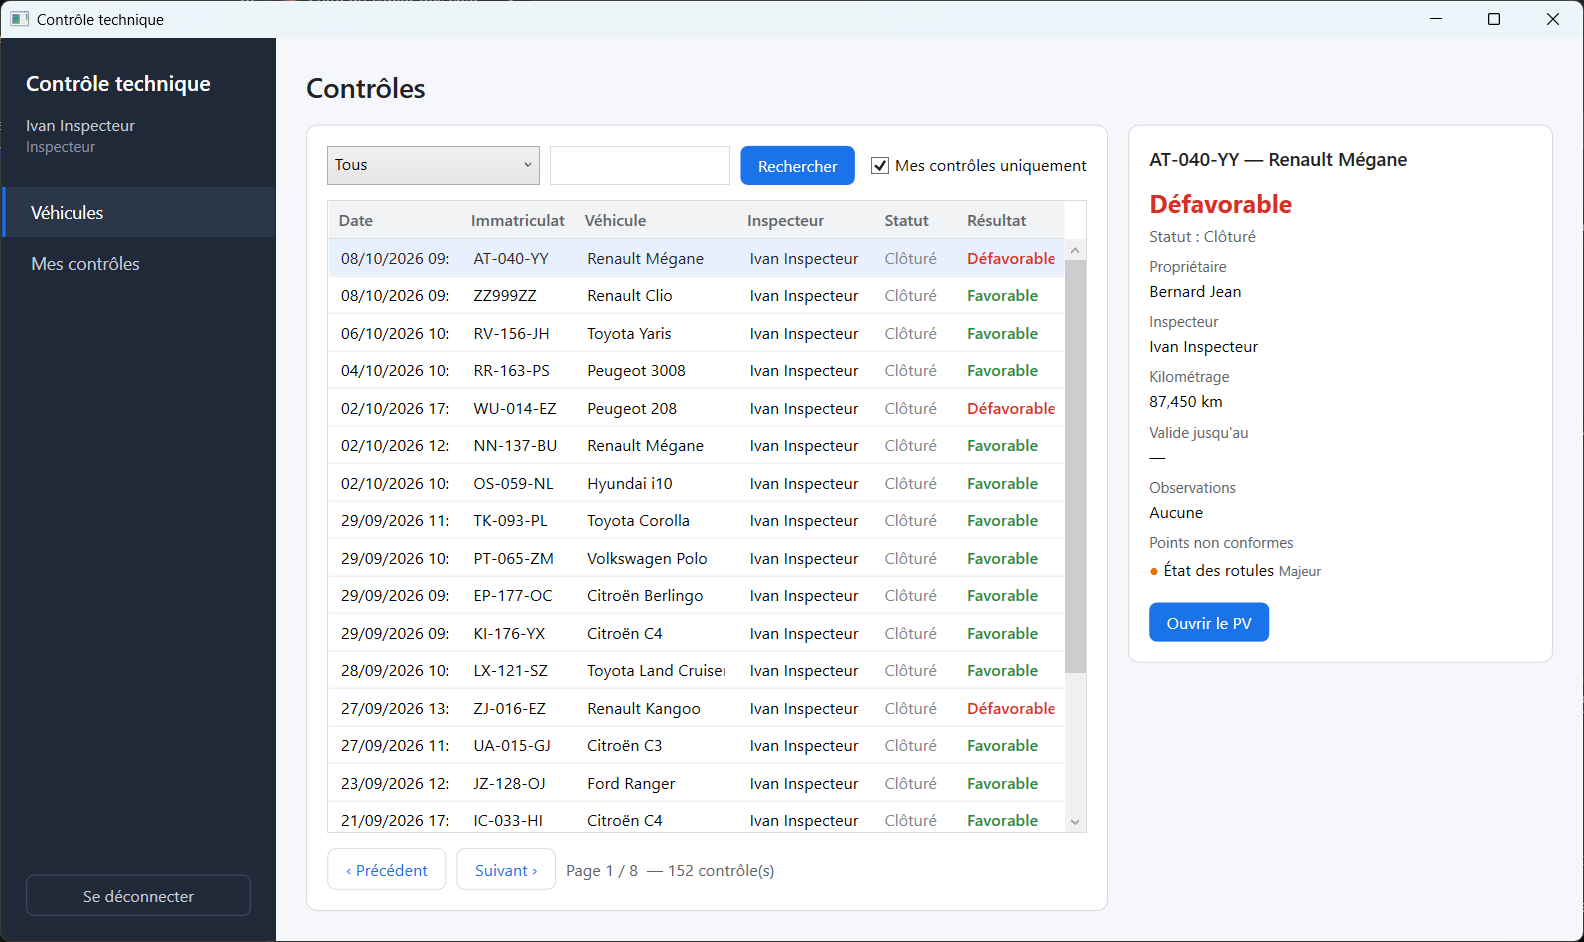
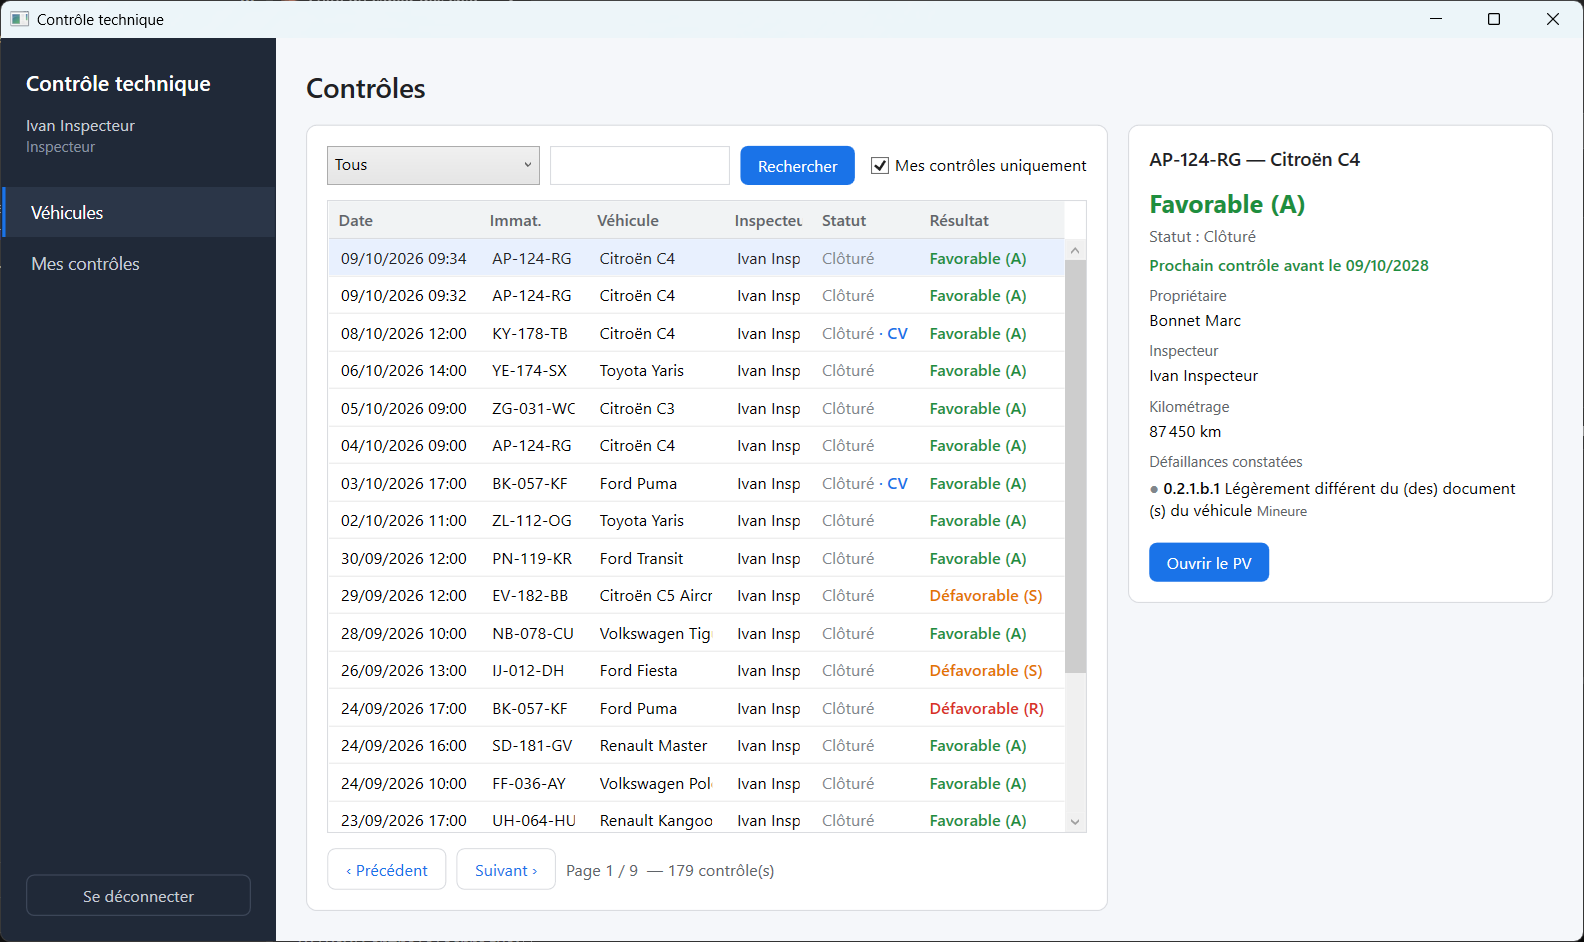
docs: rewrite README and update screenshots and demo script

diff --git a/README.md b/README.md
@@ -1,155 +1,217 @@
-# Contrôle technique — gestion des contrôles de véhicules (C# / .NET 10)
+# Contrôle Technique
 
-Application de démonstration qui gère les contrôles techniques d'un centre fictif : une **API REST ASP.NET Core** sécurisée par JWT, une base **SQL Server LocalDB** créée automatiquement, et une **application WPF (MVVM)** utilisée par trois rôles : administrateur, inspecteur et réception.
+Gestion des contrôles techniques de véhicules légers, conforme à la réglementation française : API REST ASP.NET Core, base SQL Server et application de bureau WPF.
 
-> Projet personnel et fictif : les données, les points de contrôle et les règles de calcul sont simplifiés et ne reprennent aucune réglementation officielle.
+[![CI](https://github.com/Darkepsilon22/ControleTechnique/actions/workflows/ci.yml/badge.svg)](https://github.com/Darkepsilon22/ControleTechnique/actions/workflows/ci.yml)
+![.NET](https://img.shields.io/badge/.NET-10-512BD4?logo=dotnet&logoColor=white)
+![C#](https://img.shields.io/badge/C%23-14-239120?logo=csharp&logoColor=white)
+![SQL Server](https://img.shields.io/badge/SQL%20Server-LocalDB-CC2927?logo=microsoftsqlserver&logoColor=white)
+![WPF](https://img.shields.io/badge/WPF-MVVM-0078D4?logo=windows&logoColor=white)
 
 ![Saisie d'un contrôle](docs/captures/04-saisie-controle.png)
 
+## Sommaire
+
+- [Présentation](#présentation)
+- [Fonctionnalités](#fonctionnalités)
+- [Règles réglementaires](#règles-réglementaires)
+- [Architecture](#architecture)
+- [Stack technique](#stack-technique)
+- [Démarrage rapide](#démarrage-rapide)
+- [API](#api)
+- [Tests et qualité](#tests-et-qualité)
+- [Performance](#performance)
+- [Captures d'écran](#captures-décran)
+- [Sources](#sources)
+
+## Présentation
+
+L'application couvre le travail d'un centre de contrôle technique pour les véhicules de catégories M1 et N1 (3,5 t maximum) :
+
+- la **réception** enregistre les propriétaires et les véhicules ;
+- l'**inspecteur** saisit le contrôle à partir du catalogue officiel des défaillances, le clôture et édite le procès-verbal ;
+- l'**administrateur** gère les comptes, le catalogue et suit l'activité du centre.
+
+Les règles de résultat, de validité et de contre-visite suivent l'arrêté du 18 juin 1991 modifié.
+
+> [!NOTE]
+> Projet personnel de démonstration. Il ne s'agit pas d'un logiciel agréé : aucune connexion à l'OTC ni au SIV, et toutes les données sont fictives.
+
 ## Fonctionnalités
 
-| Module | Ce qui est fait |
+| Domaine | Fonctionnalités |
 | --- | --- |
-| Authentification | Connexion par e-mail et mot de passe (BCrypt), jeton JWT de 8 h, droits par rôle sur chaque endpoint |
-| Utilisateurs | L'administrateur crée, modifie et désactive les comptes |
-| Propriétaires et véhicules | Création, modification, recherche paginée ; immatriculation et n° de châssis uniques |
-| Points de contrôle | 25 points fournis (7 catégories, gravité mineure, majeure ou critique) ; un point désactivé n'est jamais supprimé |
-| Contrôles | Ouverture par l'inspecteur, saisie point par point (conforme, non conforme, N/A, commentaire), clôture avec calcul automatique du résultat |
-| Contre-visite | Après un contrôle défavorable, l'inspecteur ouvre une contre-visite dans les 2 mois (paramètre `Controles:DelaiContreVisiteMois`) ; seuls les points non conformes sont revérifiés et la validité court depuis la date du contrôle initial |
-| Procès-verbal | PV en PDF (QuestPDF) : véhicule, propriétaire, inspecteur, résultat, points non conformes, date de fin de validité |
-| Tableau de bord | Contrôles par mois, taux de favorables, points le plus souvent non conformes |
+| Contrôle | Checklist organisée par fonction de l'annexe I ; pour chaque point : conforme, non applicable ou défaillance(s) avec leur code officiel ; points d'émissions selon l'énergie (essence ou diesel) |
+| Résultat | Calcul automatique A, S ou R ; validité et date limite de contre-visite ; contrôle verrouillé après clôture |
+| Contre-visite | Ouverture sous 2 mois après le contrôle périodique ; points revérifiés déterminés selon l'annexe I |
+| Procès-verbal | PDF avec identification du véhicule, résultat, échéance et défaillances classées par niveau |
+| Véhicules | Recherche paginée, unicité de l'immatriculation et du VIN, échéance du prochain contrôle (à jour, en retard, contre-visite à faire, circulation interdite) |
+| Catalogue | 9 fonctions, 29 points et 76 défaillances officiels, administrables |
+| Tableau de bord | Contrôles par mois, taux de favorables, résultats S et R, contre-visites, défaillances les plus fréquentes |
+| Sécurité | Authentification JWT, trois rôles, mots de passe hachés avec BCrypt, clé de signature hors du dépôt |
 
-### Règles de calcul du résultat
+## Règles réglementaires
 
-- Au moins un point **majeur ou critique** non conforme : résultat **Défavorable**.
-- Sinon : résultat **Favorable**, et les points mineurs non conformes deviennent des observations.
-- Fin de validité : date du contrôle + 12 mois (paramètre `Controles:DureeValiditeMois`), aucune date pour un défavorable.
-- Contre-visite : une seule par contrôle défavorable, jamais après une autre contre-visite ; si elle est défavorable, un nouveau contrôle complet est nécessaire.
-- Un contrôle clôturé n'est plus modifiable. La règle est appliquée dans le domaine, pas seulement dans l'interface.
+| Règle | Référence |
+| --- | --- |
+| Aucune défaillance majeure ni critique : **favorable (A)**, valable 2 ans | Arrêté du 18 juin 1991, art. 4 et 7 |
+| Au moins une défaillance majeure : **défavorable (S)**, contre-visite sous 2 mois | Art. 7 |
+| Au moins une défaillance critique : **défavorable (R)**, circulation autorisée jusqu'à minuit le jour du contrôle | Art. 7 |
+| Niveau d'une défaillance donné par le dernier chiffre de son code : 1 mineure, 2 majeure, 3 critique | Annexe I |
+| Contre-visite au-delà de 2 mois : nouveau contrôle périodique complet | Art. 7 et 8 |
+| Points revérifiés en contre-visite : fonction 0 et point 7.11.1 toujours ; fonction entière pour les fonctions 1 et 2 ; ensemble de points concerné pour les autres, avec les extensions prévues (5.1/5.3, 8.1/8.2 et 6.1.2/6.1.3) | Annexe I, section F |
+| Contre-visite favorable : validité de 2 ans à compter du contrôle périodique | Art. 4 |
+| Premier contrôle avant le 4e anniversaire de la première immatriculation, puis tous les 2 ans | Code de la route |
+
+Ces règles sont implémentées dans la couche domaine ([`Reglementation`](src/CT.Domain/Rules/Reglementation.cs), [`RegleContreVisite`](src/CT.Domain/Rules/RegleContreVisite.cs), [`EcheanceControle`](src/CT.Domain/Rules/EcheanceControle.cs), [`Controle`](src/CT.Domain/Entities/Controle.cs)) et couvertes par des tests unitaires.
+
+**Hors périmètre** : catalogue complet (133 points, 610 défaillances), contrôle complémentaire annuel des utilitaires (art. 4-1), véhicules de collection, seuils de mesure des appareils (freinage, opacité).
 
 ## Architecture
 
+```mermaid
+flowchart LR
+    WPF["CT.Desktop<br/>WPF, MVVM"] -- "HTTP + JWT" --> API["CT.Api<br/>ASP.NET Core"]
+    API --> DOM["CT.Domain<br/>règles métier"]
+    API --> INF["CT.Infrastructure<br/>EF Core"]
+    INF --> DB[("SQL Server<br/>LocalDB")]
+    WPF -. "DTO" .- SH["CT.Shared"]
+    API -. "DTO" .- SH
+```
+
 ```
 src/
-  CT.Domain/          entités, énumérations, règles métier (calcul du résultat, clôture)
-  CT.Infrastructure/  DbContext EF Core, configurations, migrations, seed, hachage BCrypt
-  CT.Api/             contrôleurs, services, JWT, PDF, gestion des erreurs (ProblemDetails)
-  CT.Shared/          DTO et énumérations partagés par l'API et les clients
-  CT.Desktop/         application WPF (MVVM avec CommunityToolkit.Mvvm)
+├── CT.Domain/          Entités, règles réglementaires, exceptions métier
+├── CT.Infrastructure/  DbContext, configurations EF Core, migrations, catalogue, données de démonstration
+├── CT.Api/             Contrôleurs, services applicatifs, JWT, PDF, gestion des erreurs
+├── CT.Shared/          DTO et énumérations partagés par l'API et les clients
+└── CT.Desktop/         Application WPF (MVVM)
 tests/
-  CT.Tests/           tests unitaires du domaine et tests d'intégration de l'API (xUnit)
-docs/captures/        captures d'écran
+└── CT.Tests/           Tests unitaires et tests d'intégration
+scripts/                Mesure des temps de réponse
+docs/                   Captures d'écran, script de démonstration
 ```
 
-- Le client WPF ne parle qu'à l'API ; seule l'API lit et écrit dans SQL Server.
-- Un contrôleur appelle un service, le service contient la logique et utilise le DbContext. L'API ne renvoie jamais d'entité, uniquement des DTO.
-- Toutes les clés sont des GUID générés par le code, pour permettre plus tard une saisie hors ligne sans conflit d'identifiant.
-- Les erreurs métier deviennent des réponses HTTP claires : 400 (validation, règle métier), 401, 403, 404, 409 (immatriculation déjà utilisée, contrôle déjà clôturé).
+Principes retenus :
 
-## Prérequis
+- **Couches séparées** : les règles métier vivent dans le domaine ; les contrôleurs délèguent aux services ; seule l'API accède à la base.
+- **Contrats explicites** : l'API n'expose que des DTO, jamais les entités.
+- **Erreurs normalisées** : les exceptions métier sont converties en `ProblemDetails` (400, 403, 404, 409).
+- **Identifiants GUID** générés par l'application, pour permettre une saisie hors ligne sans conflit.
 
-- Windows avec le **SDK .NET 10**
-- **SQL Server Express LocalDB** (instance `MSSQLLocalDB`)
-- Aucune virtualisation : ni Docker, ni WSL
+## Stack technique
 
-## Lancer le projet
+| Couche | Technologies |
+| --- | --- |
+| API | ASP.NET Core 10, JWT Bearer, OpenAPI, Scalar, QuestPDF |
+| Données | Entity Framework Core 10, SQL Server LocalDB, migrations versionnées |
+| Bureau | WPF, CommunityToolkit.Mvvm, Microsoft.Extensions.DependencyInjection |
+| Tests | xUnit, WebApplicationFactory, SQLite en mémoire |
+| CI | GitHub Actions (build et tests à chaque pull request) |
+
+## Démarrage rapide
+
+### Prérequis
+
+- Windows 10 ou 11
+- [SDK .NET 10](https://dotnet.microsoft.com/download)
+- SQL Server Express LocalDB (instance `MSSQLLocalDB`)
+
+### Installation
 
 ```powershell
 git clone https://github.com/Darkepsilon22/ControleTechnique.git
 cd ControleTechnique
 
-# 1. Clé de signature JWT, stockée hors du dépôt (au moins 32 caractères)
-cd src/CT.Api
-dotnet user-secrets set "Jwt:Key" "une-cle-aleatoire-d-au-moins-32-caracteres"
-cd ../..
-
-# 2. API : crée la base LocalDB, applique les migrations et insère les données de démonstration
-dotnet run --project src/CT.Api
+# Clé de signature JWT, stockée hors du dépôt (32 caractères minimum)
+dotnet user-secrets set "Jwt:Key" "<clé-aléatoire-de-32-caractères-minimum>" --project src/CT.Api
 ```
 
-L'API écoute sur `http://localhost:5092`. L'interface OpenAPI (Scalar) est disponible sur <http://localhost:5092/scalar/v1> ; le document OpenAPI brut est servi sur `/openapi/v1.json`.
-
-Dans un second terminal :
+### Lancement
 
 ```powershell
-# 3. Application desktop
+# Terminal 1 : l'API crée la base, applique les migrations et insère les données de démonstration
+dotnet run --project src/CT.Api
+
+# Terminal 2 : application de bureau
 dotnet run --project src/CT.Desktop
 ```
 
-Pour viser une autre adresse d'API : variable d'environnement `CT_API_URL`, par exemple `https://localhost:7169/`.
+L'API écoute sur `http://localhost:5092`. L'application de bureau peut viser une autre adresse avec la variable d'environnement `CT_API_URL`.
 
 ### Comptes de démonstration
 
 | Rôle | E-mail | Mot de passe |
 | --- | --- | --- |
-| Administrateur | admin@ct.local | Demo123! |
-| Inspecteur | inspecteur@ct.local | Demo123! |
-| Réception | reception@ct.local | Demo123! |
+| Administrateur | `admin@ct.local` | `Demo123!` |
+| Inspecteur | `inspecteur@ct.local` | `Demo123!` |
+| Réception | `reception@ct.local` | `Demo123!` |
 
-La base de démonstration contient 25 points de contrôle, 120 propriétaires, 200 véhicules et 150 contrôles clôturés sur les six derniers mois.
+La base de démonstration contient le catalogue réglementaire, 200 véhicules et environ 150 contrôles des six derniers mois. Un parcours de démonstration en 3 minutes est décrit dans [docs/demo.md](docs/demo.md).
 
-Un déroulé de démonstration en 3 minutes est décrit dans [docs/demo.md](docs/demo.md).
+## API
 
-## Tests
+La documentation interactive est disponible sur <http://localhost:5092/scalar/v1> et le document OpenAPI sur `/openapi/v1.json`.
+
+<details>
+<summary>Endpoints</summary>
+
+| Méthode et route | Rôles |
+| --- | --- |
+| `POST /api/auth/login` | Public |
+| `GET, POST /api/utilisateurs` · `PUT /api/utilisateurs/{id}` | Administrateur |
+| `GET, POST /api/proprietaires` · `PUT /api/proprietaires/{id}` | Administrateur, Réception |
+| `GET /api/vehicules` · `GET /api/vehicules/{id}` · `GET /api/vehicules/{id}/controles` | Tous |
+| `POST /api/vehicules` · `PUT /api/vehicules/{id}` | Administrateur, Réception |
+| `GET /api/points-controle` | Tous |
+| `POST /api/points-controle` · `POST /api/points-controle/{id}/defaillances` | Administrateur |
+| `GET /api/controles` · `GET /api/controles/{id}` · `GET /api/controles/{id}/pv` | Tous |
+| `POST /api/controles` · `PUT /api/controles/{id}` · `POST /api/controles/{id}/cloturer` · `POST /api/controles/{id}/contre-visite` | Inspecteur |
+| `GET /api/statistiques/resume` | Administrateur |
+
+Des requêtes prêtes à l'emploi sont fournies dans [src/CT.Api/CT.Api.http](src/CT.Api/CT.Api.http).
+
+</details>
+
+## Tests et qualité
 
 ```powershell
 dotnet test
 ```
 
-- **Tests unitaires** sur les règles métier : calcul du résultat, date de fin de validité, saisie, clôture et refus de toute modification après clôture.
-- **Tests d'intégration** de l'API avec `WebApplicationFactory` et SQLite en mémoire : connexion valide (200) et invalide (401), absence de jeton (401), rôle insuffisant (403), immatriculation en double (409), données invalides (400), parcours complet jusqu'au PV.
+- **Tests unitaires** des règles réglementaires : résultat A/S/R, validités, niveau déduit du code, points revérifiés en contre-visite, délais, échéance des véhicules, saisie et clôture.
+- **Tests d'intégration** de l'API (`WebApplicationFactory`, SQLite en mémoire) : authentification, autorisations par rôle, validation, conflits, parcours complet jusqu'au PV et contre-visite.
+- **Intégration continue** : build et tests exécutés par GitHub Actions sur chaque pull request.
 
 ## Performance
 
-Exigence : réponse sous 500 ms en local avec 10 000 véhicules. Pour la vérifier, l'option `Demo:VehiculesDeCharge` complète la base jusqu'au nombre de véhicules demandé, puis un script chronomètre les principales requêtes :
+Objectif : réponse inférieure à 500 ms avec 10 000 véhicules. Mesure reproductible :
 
 ```powershell
 dotnet run --project src/CT.Api -- --Demo:VehiculesDeCharge=10000
 .\scripts\mesurer-performance.ps1
 ```
 
-Résultats sur LocalDB, 10 000 véhicules, 20 mesures par requête (temps HTTP complets, en ms) :
-
-| Requête | Médiane | 95e centile |
+| Requête (10 000 véhicules, LocalDB) | Médiane | 95e centile |
 | --- | --- | --- |
-| Véhicules, page 1 | 5,5 | 6,7 |
-| Véhicules, dernière page | 20,1 | 23,3 |
-| Recherche d'immatriculation | 33,1 | 37,1 |
-| Recherche de n° de châssis | 22,0 | 25,0 |
-| Recherche de propriétaire | 21,2 | 35,4 |
-| Propriétaires, page 1 | 3,0 | 11,2 |
-| Contrôles, page 1 | 3,4 | 4,8 |
-| Statistiques sur 6 mois | 4,1 | 5,5 |
-
-Le script renvoie un code d'erreur si une requête dépasse le seuil.
-
-## Endpoints principaux
-
-| Méthode et route | Rôles |
-| --- | --- |
-| `POST /api/auth/login` | Public |
-| `GET, POST /api/utilisateurs`, `PUT /api/utilisateurs/{id}` | Administrateur |
-| `GET, POST /api/proprietaires`, `PUT /api/proprietaires/{id}` | Administrateur, Réception |
-| `GET /api/vehicules?search=&page=`, `GET /api/vehicules/{id}`, `GET /api/vehicules/{id}/controles` | Tous |
-| `POST /api/vehicules`, `PUT /api/vehicules/{id}` | Administrateur, Réception |
-| `GET /api/points-controle` | Tous |
-| `POST /api/points-controle` (création ou modification) | Administrateur |
-| `GET /api/controles?statut=&search=&mesControles=`, `GET /api/controles/{id}` | Tous |
-| `POST /api/controles`, `PUT /api/controles/{id}`, `POST /api/controles/{id}/cloturer` | Inspecteur (ses propres contrôles) |
-| `POST /api/controles/{id}/contre-visite` | Inspecteur |
-| `GET /api/controles/{id}/pv` | Tous |
-| `GET /api/statistiques/resume?du=&au=` | Administrateur |
-
-Le fichier [src/CT.Api/CT.Api.http](src/CT.Api/CT.Api.http) contient des requêtes prêtes à l'emploi.
+| Véhicules, page 1 | 11 ms | 26 ms |
+| Véhicules, dernière page | 38 ms | 54 ms |
+| Recherche par immatriculation | 54 ms | 90 ms |
+| Recherche par numéro de châssis | 36 ms | 53 ms |
+| Recherche par propriétaire | 37 ms | 66 ms |
+| Contrôles, page 1 | 8 ms | 11 ms |
+| Statistiques sur 6 mois | 13 ms | 19 ms |
 
 ## Captures d'écran
 
-| | |
+| Tableau de bord | Véhicules |
 | --- | --- |
-| ![Connexion](docs/captures/01-connexion.png) | ![Tableau de bord](docs/captures/02-tableau-de-bord.png) |
-| ![Véhicules](docs/captures/03-vehicules.png) | ![Contrôles](docs/captures/05-controles.png) |
-| ![Saisie d'un contrôle](docs/captures/04-saisie-controle.png) | ![Points de contrôle](docs/captures/06-points-de-controle.png) |
+| ![Tableau de bord](docs/captures/02-tableau-de-bord.png) | ![Véhicules](docs/captures/03-vehicules.png) |
+| **Contrôles** | **Catalogue réglementaire** |
+| ![Contrôles](docs/captures/05-controles.png) | ![Catalogue](docs/captures/06-points-de-controle.png) |
 
-## Technologies
+## Sources
 
-C# 14, .NET 10, ASP.NET Core, Entity Framework Core 10, SQL Server LocalDB, JWT, BCrypt, QuestPDF (licence Community), Scalar, WPF, CommunityToolkit.Mvvm, xUnit, SQLite (tests).
+- [Arrêté du 18 juin 1991 modifié](https://www.legifrance.gouv.fr/loda/id/LEGITEXT000020559004), articles 4, 7 et 8 (Légifrance)
+- [Annexe I de l'arrêté](https://www.legifrance.gouv.fr/loda/article_lc/LEGIARTI000042548649) : fonctions, points, défaillances et contre-visites (Légifrance)
+- Instructions techniques véhicules légers, par exemple [IT VL F1 Freinage](https://fna.fr/wp-content/uploads/2023/05/IT-VL-F1E-FREINAGE-171018.pdf) et [IT VL F5 Liaisons au sol](https://fna.fr/wp-content/uploads/2023/05/IT-VL-F5E-LIAISON-AU-SOL-23022022.pdf)

diff --git a/docs/demo.md b/docs/demo.md
@@ -5,7 +5,7 @@ Parcours complet de l'application, du point de vue des trois rôles, puis un ape
 ## Préparation (5 minutes avant)
 
 ```powershell
-# Base de démonstration propre (25 points, 200 véhicules, 150 contrôles)
+# Base de démonstration propre (catalogue réglementaire, 200 véhicules, environ 150 contrôles)
 dotnet ef database drop -f -p src/CT.Infrastructure -s src/CT.Api
 dotnet run --project src/CT.Api
 
@@ -16,7 +16,7 @@ dotnet run --project src/CT.Desktop
 À garder ouverts :
 
 - le navigateur sur <http://localhost:5092/scalar/v1> ;
-- l'éditeur sur `src/CT.Domain/Entities/Controle.cs` et `src/CT.Domain/Rules/CalculateurResultat.cs` ;
+- l'éditeur sur `src/CT.Domain/Rules/Reglementation.cs`, `src/CT.Domain/Rules/RegleContreVisite.cs` et `src/CT.Domain/Entities/Controle.cs` ;
 - un terminal à la racine du dépôt, pour `dotnet test`.
 
 Tous les comptes utilisent le mot de passe `Demo123!`.
@@ -27,9 +27,9 @@ Tous les comptes utilisent le mot de passe `Demo123!`.
 | --- | --- | --- | --- |
 | 0:00 – 0:20 | — | Écran de connexion | Une API ASP.NET Core avec SQL Server, et une application WPF pour trois rôles. Tout est en C# .NET 10. |
 | 0:20 – 0:50 | Réception (`reception@ct.local`) | Véhicules → **Nouveau** → immatriculation `DE-123-MO`, châssis `VF1DEMO0000000001`, propriétaire recherché par son nom → **Enregistrer**. Puis **Nouveau** à nouveau, même immatriculation et un autre châssis (`VF1DEMO0000000002`) → **Enregistrer**. | La validation se fait côté serveur. L'immatriculation est unique : l'API répond 409 et l'écran affiche le message. |
-| 0:50 – 1:50 | Inspecteur (`inspecteur@ct.local`) | Véhicules → rechercher `DE-123` et sélectionner le véhicule → kilométrage `85000` → **Ouvrir un contrôle** → **Tout conforme** → passer « Essuie-glaces » en **Non conforme** avec un commentaire → **Clôturer le contrôle** → **Oui** à la confirmation → **Oui** pour ouvrir le PV. | La checklist est groupée par catégorie. Un point mineur non conforme donne un résultat favorable avec une observation, et la date de validité est à 12 mois. Après la clôture, plus aucune modification n'est possible. Le PV est généré en PDF par l'API. |
-| 1:50 – 2:20 | Administrateur (`admin@ct.local`) | Tableau de bord → Points de contrôle → Utilisateurs | Les statistiques sont calculées en SQL par Entity Framework. Un point désactivé n'est jamais supprimé, pour garder l'historique des anciens contrôles. |
-| 2:20 – 2:45 | — | Éditeur : `Controle.Cloturer` et `CalculateurResultat.Calculer`, puis `dotnet test` dans le terminal | Les règles métier sont dans le domaine, pas dans les contrôleurs ni dans l'interface. 46 tests passent : des tests unitaires des règles et des tests d'intégration de l'API sur SQLite en mémoire. |
+| 0:50 – 1:50 | Inspecteur (`inspecteur@ct.local`) | Véhicules → rechercher `DE-123` et sélectionner le véhicule → kilométrage `85000` → **Ouvrir un contrôle** → **Tout conforme** → sur le point 1.1.13, choisir **Défaillance(s)** et cocher `1.1.13.a.2` → **Clôturer le contrôle** → **Oui** à la confirmation → **Oui** pour ouvrir le PV. Revenir aux contrôles, sélectionner ce contrôle et ouvrir la contre-visite. | La checklist suit les fonctions de l'annexe I de l'arrêté du 18 juin 1991, avec les codes officiels des défaillances. Une défaillance majeure donne le résultat S : contre-visite sous 2 mois. La contre-visite revérifie toute la fonction freinage, l'identification et le compteur, comme l'impose l'annexe I. |
+| 1:50 – 2:20 | Administrateur (`admin@ct.local`) | Tableau de bord → Points de contrôle → Utilisateurs | Les statistiques distinguent les résultats A, S et R et listent les défaillances les plus fréquentes. Le catalogue est administrable : le niveau d'une défaillance se déduit de son code. |
+| 2:20 – 2:45 | — | Éditeur : `Reglementation.Resultat`, `RegleContreVisite.PointsAReverifier` et `Controle.Cloturer`, puis `dotnet test` dans le terminal | Les règles métier sont dans le domaine, pas dans les contrôleurs ni dans l'interface. 75 tests passent : des tests unitaires des règles et des tests d'intégration de l'API sur SQLite en mémoire. |
 | 2:45 – 3:00 | — | Navigateur : Scalar | L'API est documentée avec OpenAPI et sécurisée par JWT. Avec 10 000 véhicules, chaque requête répond en moins de 40 ms. La CI GitHub Actions compile et teste chaque pull request. |
 
 ## En cas de problème
